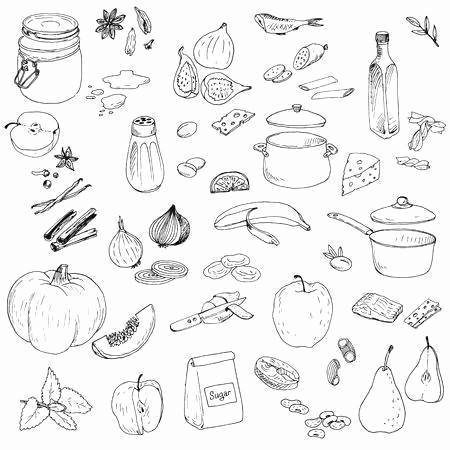
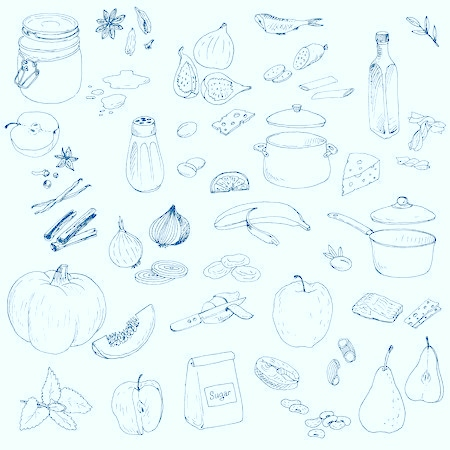
Updated background image

diff --git a/assets/styles/index.scss b/assets/styles/index.scss
@@ -4,10 +4,7 @@
 html, body {
   margin: 0;
   height: 100%;
-  -webkit-background: linear-gradient(to bottom, rgba(234, 247, 255, 0.5), rgba(234, 247, 255, 0.5)),
-  url('../../../background.jpg');
-  background: linear-gradient(to bottom, rgba(234, 247, 255, 0.5), rgba(234, 247, 255, 0.5)),
-  url('../../../background.jpg');
+  background: url('../../../background.jpg');
 }
 
 #page-container {
